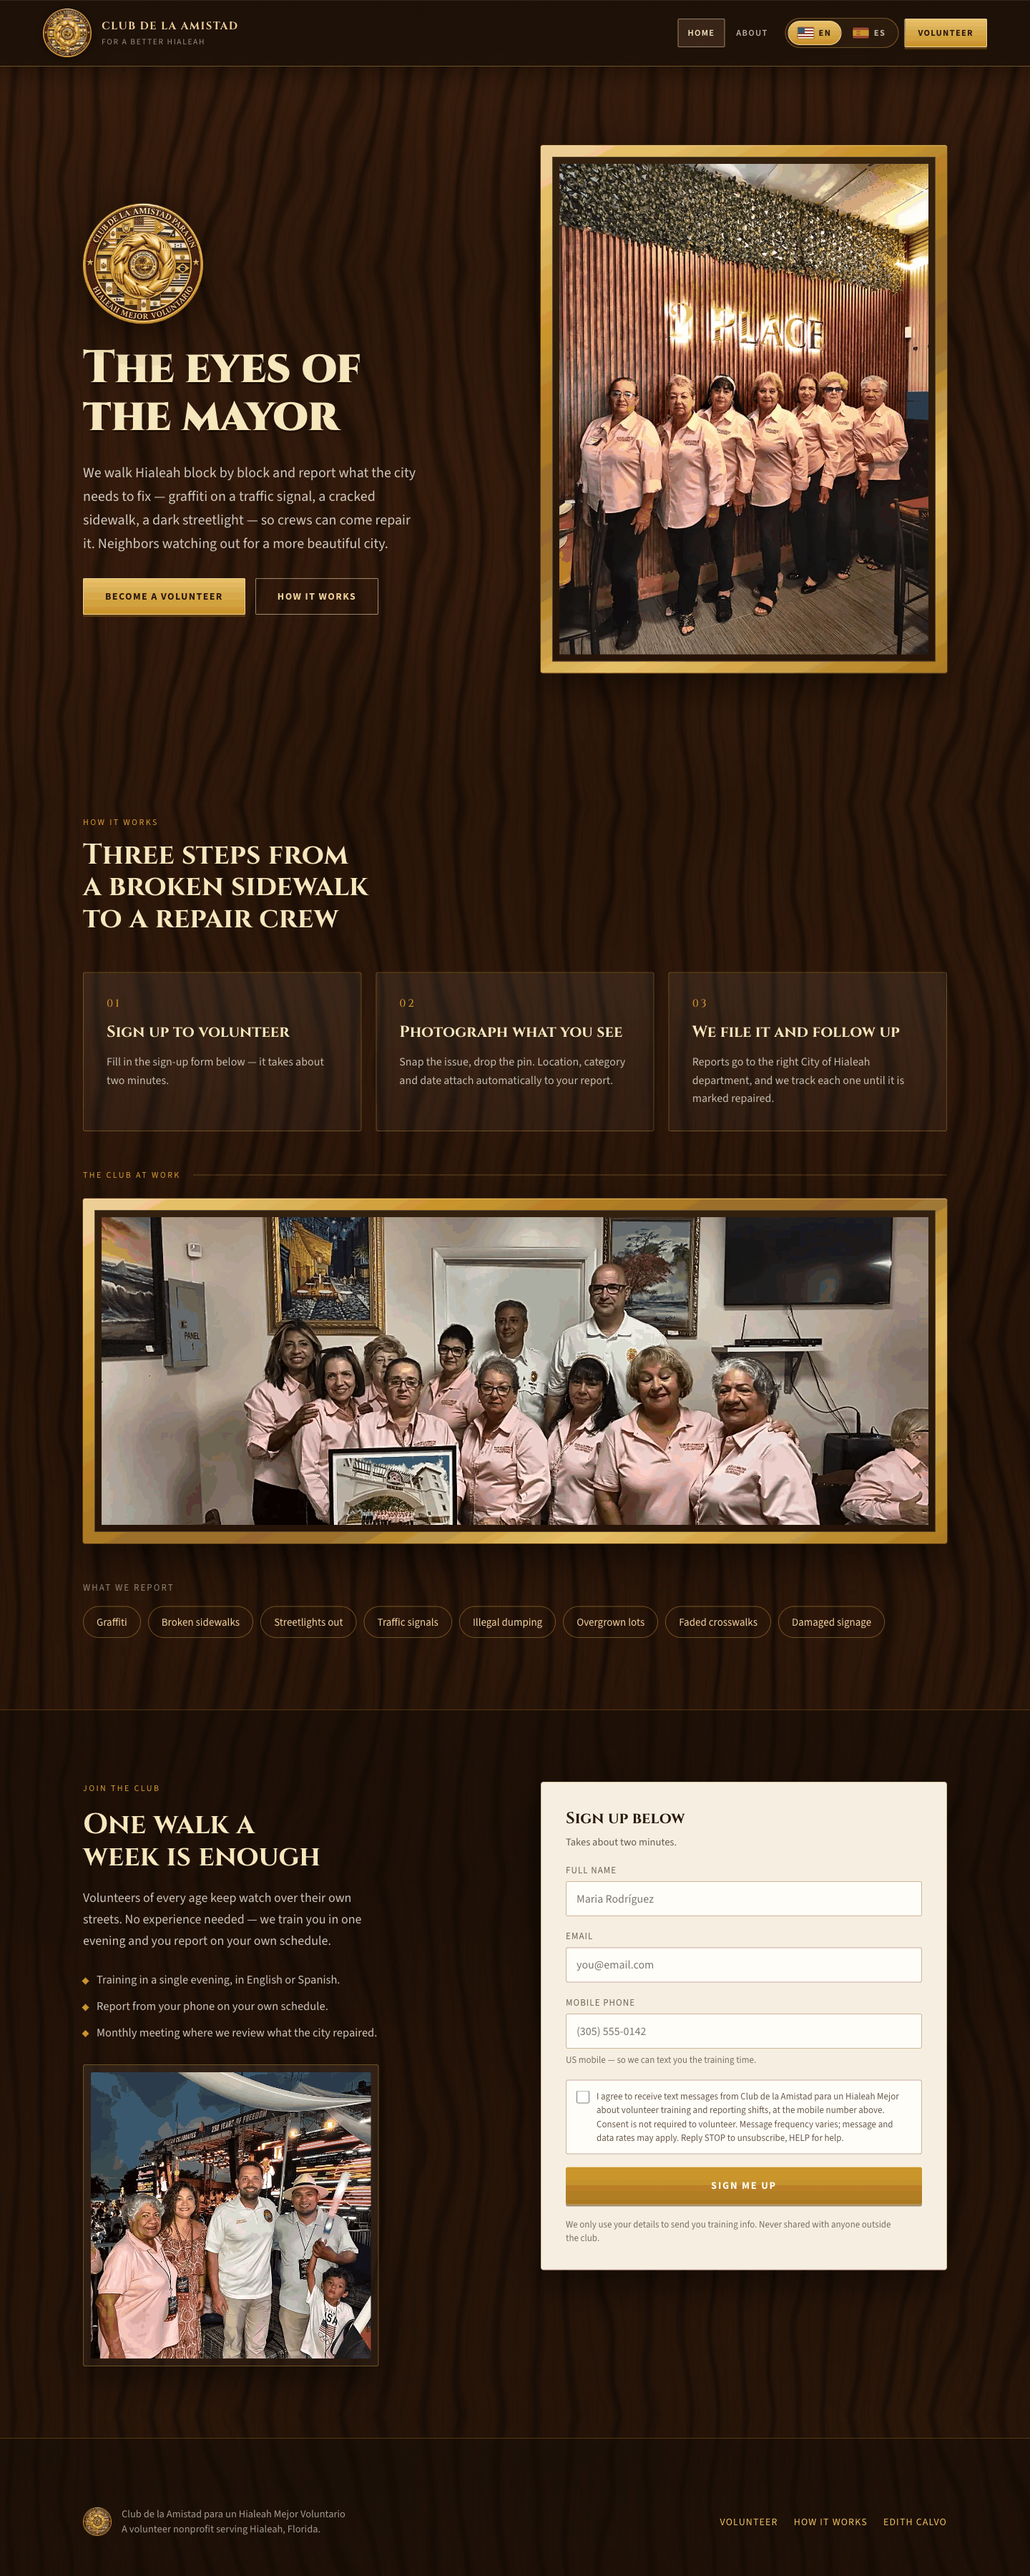
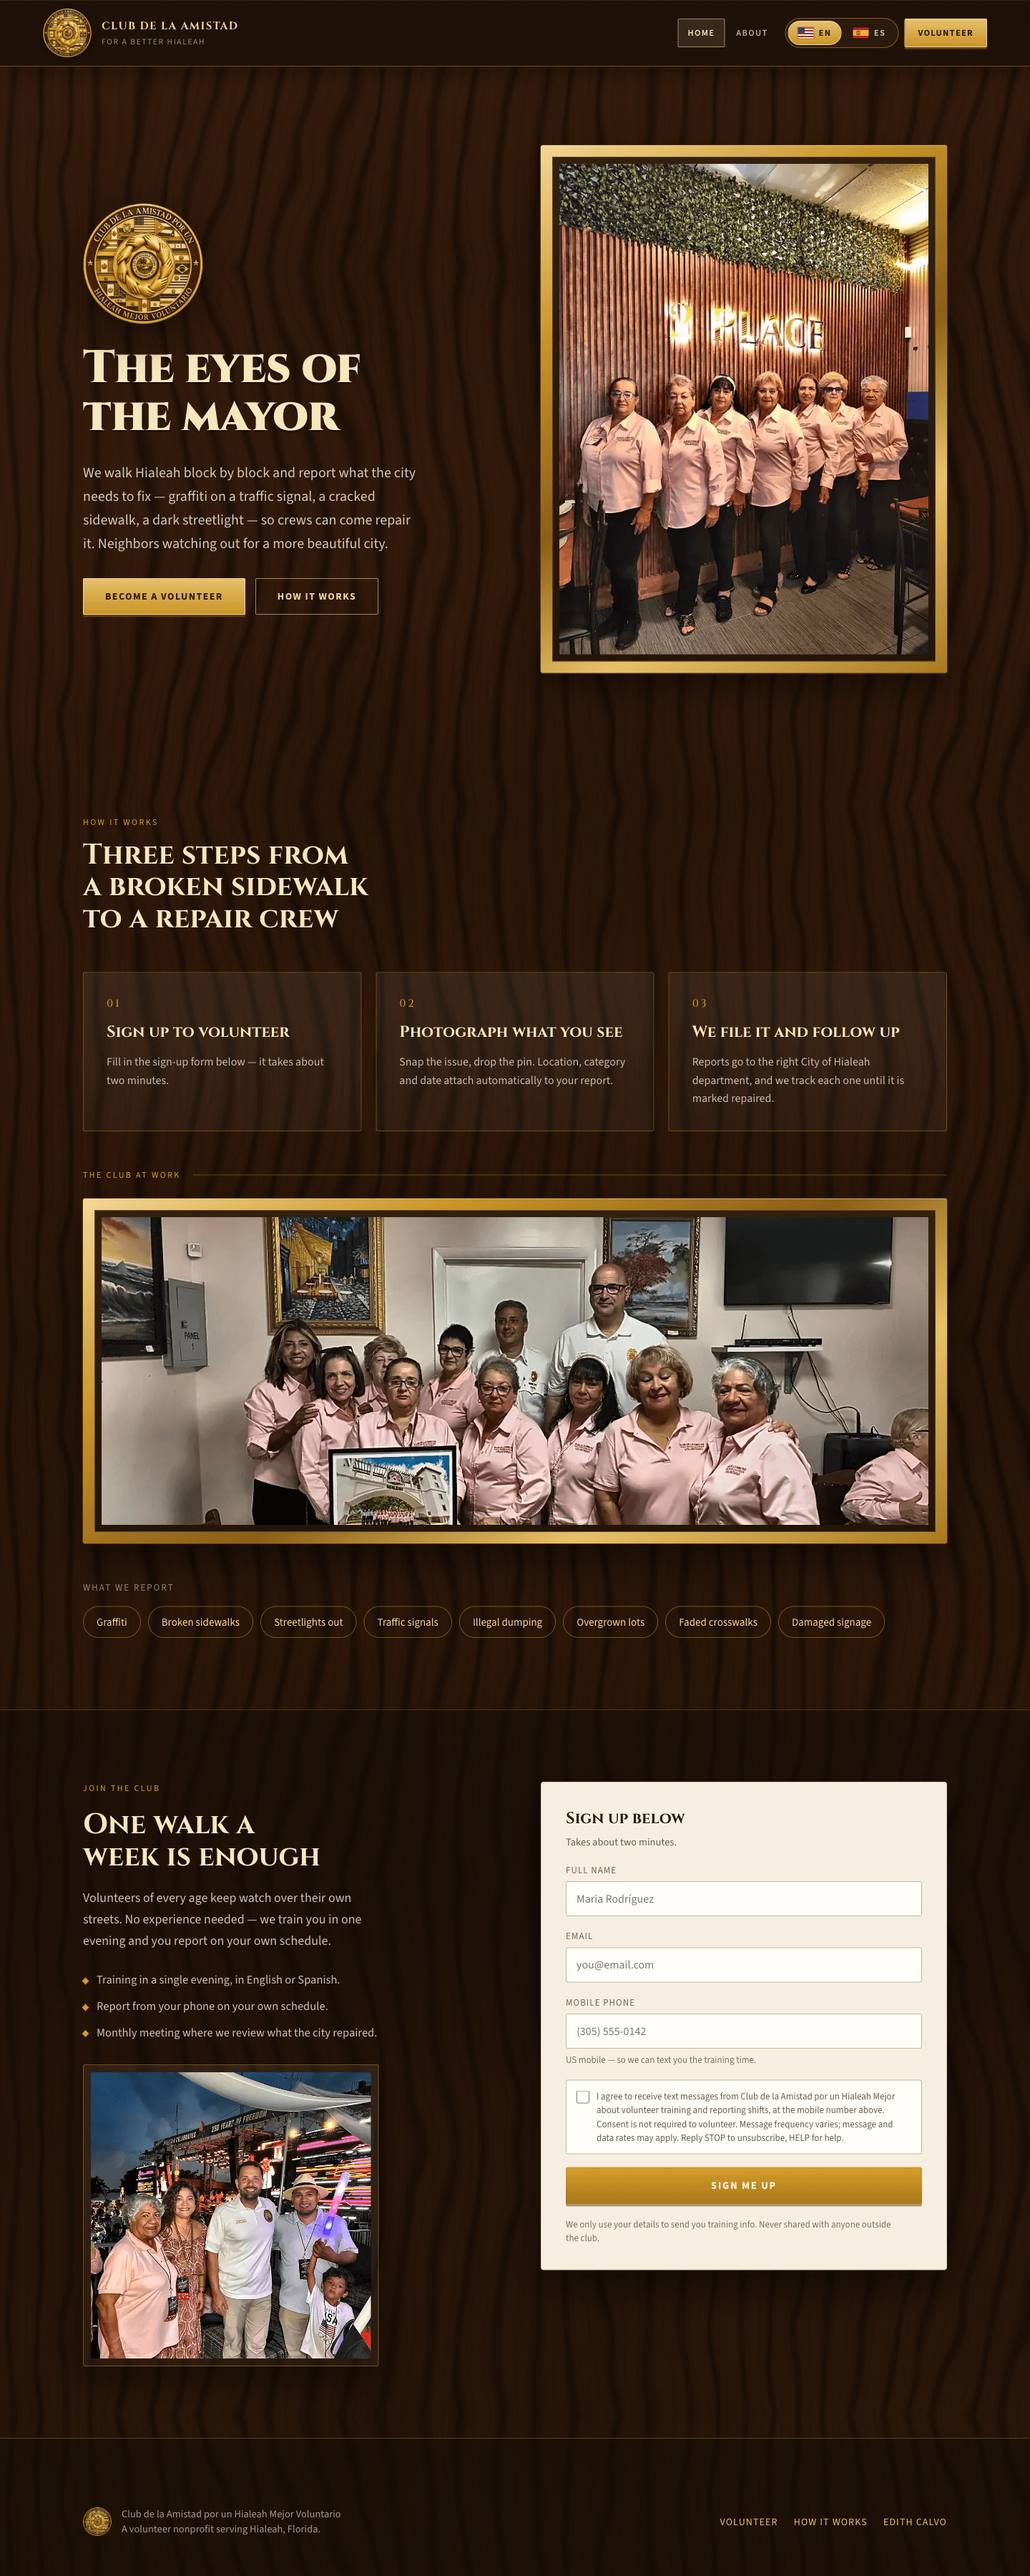
Say "por un Hialeah mejor", and letter the seal to match
The club's name takes "por", not "para" — the domain has always said so
(porunhialeahmejor.com) while every string in the site said otherwise. The
wrong preposition reached further than the medal: page titles, the PWA
manifest, both locale files, the footer, the hero's alt text and the ORG
field of Edith's downloadable vCard.

The seal artwork is replaced with a version lettered POR UN. It arrived as
RGB with a transparency checkerboard flattened into the background, so the
alpha is rebuilt by flood-filling that checkerboard inward from the border.
A colour key would have punched out the cream flag stripes inside the ring —
they are the same brightness as the light checker square — and a fitted
circle would have clipped the rim, since the disc measures 1210px across but
1219px tall. The opaque mask is then eroded 1px to drop rim pixels that are
gold blended with grey, and feathered so the edge does not read as cut out.
Cropped to the disc and resized to 900x900, it is a drop-in for the asset it
replaces, so no component changed.

home-desktop.png is re-shot: its footer and consent text showed the old
wording.

Claude-Session: https://claude.ai/code/session_01GSKHvrwNtYBY6MFHfV94d7

diff --git a/src/i18n/locales/es.ts b/src/i18n/locales/es.ts
@@ -1,7 +1,7 @@
 import type en from "./en";
 
 const es: typeof en = {
-  tagline: "para un Hialeah mejor",
+  tagline: "por un Hialeah mejor",
   navHome: "Inicio",
   navAbout: "Nosotros",
   navJoin: "Ser voluntario",
@@ -40,7 +40,7 @@ const es: typeof en = {
   fieldPhone: "Teléfono móvil",
   phoneHint: "Móvil en EE. UU. — para enviarte la hora del entrenamiento.",
   smsConsent:
-    "Acepto recibir mensajes de texto del Club de la Amistad para un Hialeah Mejor sobre el entrenamiento de voluntarios y los turnos de reporte, al número móvil de arriba. El consentimiento no es obligatorio para ser voluntario. La frecuencia de mensajes varía; pueden aplicar tarifas de mensajes y datos. Responde STOP para darte de baja o HELP para ayuda.",
+    "Acepto recibir mensajes de texto del Club de la Amistad por un Hialeah Mejor sobre el entrenamiento de voluntarios y los turnos de reporte, al número móvil de arriba. El consentimiento no es obligatorio para ser voluntario. La frecuencia de mensajes varía; pueden aplicar tarifas de mensajes y datos. Responde STOP para darte de baja o HELP para ayuda.",
   formSubmit: "Inscríbeme",
   formSending: "Enviando…",
   formFine:
@@ -57,7 +57,7 @@ const es: typeof en = {
   aboutKicker: "Nosotros",
   aboutTitle: "Un club de vecinos, no de inspectores",
   aboutLede:
-    "El Club de la Amistad para un Hialeah Mejor es una organización de voluntarios que pone ojos amables en cada calle de Hialeah, y convierte lo que ven en órdenes de trabajo para la ciudad.",
+    "El Club de la Amistad por un Hialeah Mejor es una organización de voluntarios que pone ojos amables en cada calle de Hialeah, y convierte lo que ven en órdenes de trabajo para la ciudad.",
   edithRole: "Fundadora y presidenta",
   edithQuote: "Si lo vemos primero, la ciudad lo arregla más rápido.",
   edithBio1:
@@ -118,7 +118,7 @@ const es: typeof en = {
     joinBody:
       "Regístrate para cuidar tus propias cuadras: toma unos dos minutos.",
     joinCta: "Hazte voluntario",
-    foot: "Club de la Amistad para un Hialeah Mejor · Organización sin fines de lucro al servicio de Hialeah, Florida.",
+    foot: "Club de la Amistad por un Hialeah Mejor · Organización sin fines de lucro al servicio de Hialeah, Florida.",
     vcardTitle: "Fundadora y presidenta",
     vcardNote:
       "Solo llamadas, no mensajes de texto. Reporta grafiti, aceras rotas o luces apagadas en Hialeah.",

diff --git a/src/i18n/locales/en.ts b/src/i18n/locales/en.ts
@@ -39,7 +39,7 @@ const en = {
   fieldPhone: "Mobile phone",
   phoneHint: "US mobile — so we can text you the training time.",
   smsConsent:
-    "I agree to receive text messages from Club de la Amistad para un Hialeah Mejor about volunteer training and reporting shifts, at the mobile number above. Consent is not required to volunteer. Message frequency varies; message and data rates may apply. Reply STOP to unsubscribe, HELP for help.",
+    "I agree to receive text messages from Club de la Amistad por un Hialeah Mejor about volunteer training and reporting shifts, at the mobile number above. Consent is not required to volunteer. Message frequency varies; message and data rates may apply. Reply STOP to unsubscribe, HELP for help.",
   formSubmit: "Sign me up",
   formSending: "Sending…",
   formFine:
@@ -56,7 +56,7 @@ const en = {
   aboutKicker: "About us",
   aboutTitle: "A club of neighbors, not inspectors",
   aboutLede:
-    "Club de la Amistad para un Hialeah Mejor is a volunteer organization that puts friendly eyes on every street of Hialeah — and turns what they see into work orders for the city that maintains them.",
+    "Club de la Amistad por un Hialeah Mejor is a volunteer organization that puts friendly eyes on every street of Hialeah — and turns what they see into work orders for the city that maintains them.",
   edithRole: "Founder & President",
   edithQuote: "If we see it first, the city can fix it faster.",
   edithBio1:
@@ -117,7 +117,7 @@ const en = {
     joinBody:
       "Sign up to keep watch over your own blocks — it takes about two minutes.",
     joinCta: "Become a volunteer",
-    foot: "Club de la Amistad para un Hialeah Mejor · A volunteer nonprofit serving Hialeah, Florida.",
+    foot: "Club de la Amistad por un Hialeah Mejor · A volunteer nonprofit serving Hialeah, Florida.",
     vcardTitle: "Founder & President",
     vcardNote:
       "Phone calls only — no text messages. Report graffiti, broken sidewalks or streetlights out in Hialeah.",

diff --git a/src/app/edith/page.tsx b/src/app/edith/page.tsx
@@ -74,7 +74,7 @@ export default function EdithContactPage() {
       "VERSION:3.0",
       "N:Calvo;Edith;;;",
       "FN:Edith Calvo",
-      "ORG:Club de la Amistad para un Hialeah Mejor",
+      "ORG:Club de la Amistad por un Hialeah Mejor",
       `TITLE:${t("contact.vcardTitle")}`,
       `TEL;TYPE=CELL,VOICE:${PHONE_E164}`,
       "ADR;TYPE=WORK:;;;Hialeah;FL;;USA",
@@ -188,7 +188,7 @@ export default function EdithContactPage() {
           </div>
           <div className={s.detailRow}>
             <span className={s.detailLabel}>{t("contact.orgLabel")}</span>
-            <span className={s.detailOrg}>Club de la Amistad para un Hialeah Mejor</span>
+            <span className={s.detailOrg}>Club de la Amistad por un Hialeah Mejor</span>
           </div>
         </div>
 

diff --git a/src/app/(site)/page.tsx b/src/app/(site)/page.tsx
@@ -24,7 +24,7 @@ export default function HomePage() {
         <div className={s.heroCopy}>
           <Image
             src="/assets/seal.png"
-            alt="Club de la Amistad para un Hialeah Mejor Voluntario"
+            alt="Club de la Amistad por un Hialeah Mejor Voluntario"
             width={900}
             height={900}
             // Renders at clamp(120px, 15vw, 168px) — without this the srcset

diff --git a/src/components/SiteFooter.tsx b/src/components/SiteFooter.tsx
@@ -14,7 +14,7 @@ export function SiteFooter() {
         <div className={s.identity}>
           <Image src="/assets/seal.png" alt="" width={40} height={40} className={s.seal} />
           <p className={s.note}>
-            Club de la Amistad para un Hialeah Mejor Voluntario
+            Club de la Amistad por un Hialeah Mejor Voluntario
             <br />
             {t("footerNote")}
           </p>

diff --git a/src/app/layout.tsx b/src/app/layout.tsx
@@ -23,7 +23,7 @@ export const metadata: Metadata = {
   // Next fails the build on a relative image with no metadataBase.
   metadataBase: new URL("https://porunhialeahmejor.com"),
   title: {
-    default: "Club de la Amistad para un Hialeah Mejor",
+    default: "Club de la Amistad por un Hialeah Mejor",
     template: "%s · Club de la Amistad",
   },
   description:

diff --git a/src/app/manifest.ts b/src/app/manifest.ts
@@ -6,7 +6,7 @@ import type { MetadataRoute } from "next";
  */
 export default function manifest(): MetadataRoute.Manifest {
   return {
-    name: "Club de la Amistad para un Hialeah Mejor",
+    name: "Club de la Amistad por un Hialeah Mejor",
     short_name: "Hialeah Mejor",
     start_url: "/",
     display: "standalone",

diff --git a/README.md b/README.md
@@ -1,4 +1,4 @@
-# Club de la Amistad para un Hialeah Mejor
+# Club de la Amistad por un Hialeah Mejor
 
 Website for the volunteer club that walks Hialeah block by block, photographs
 what the city needs to repair, and files it with the right department.
